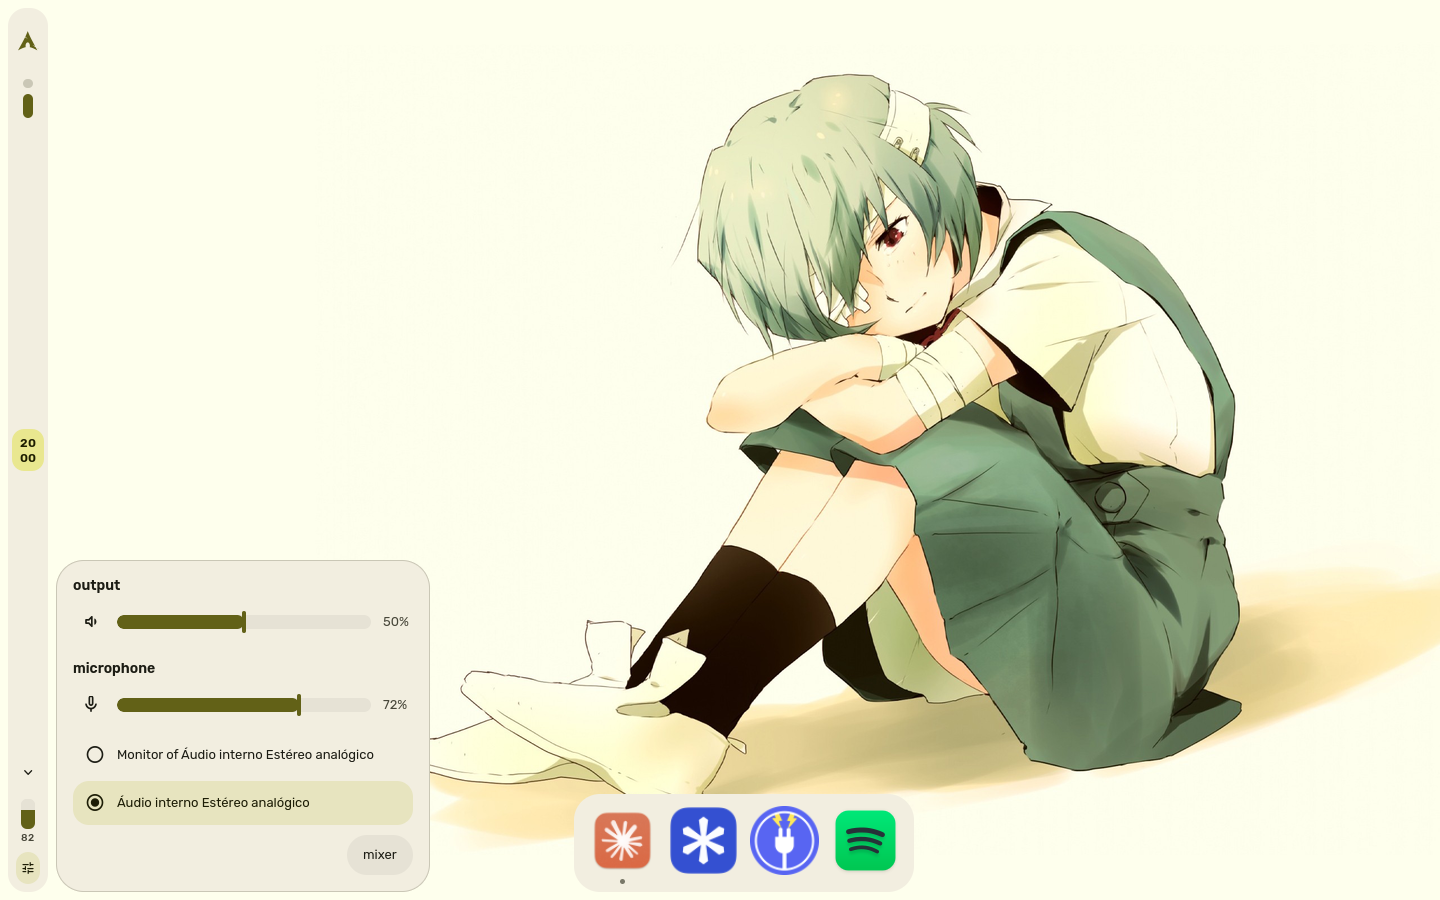
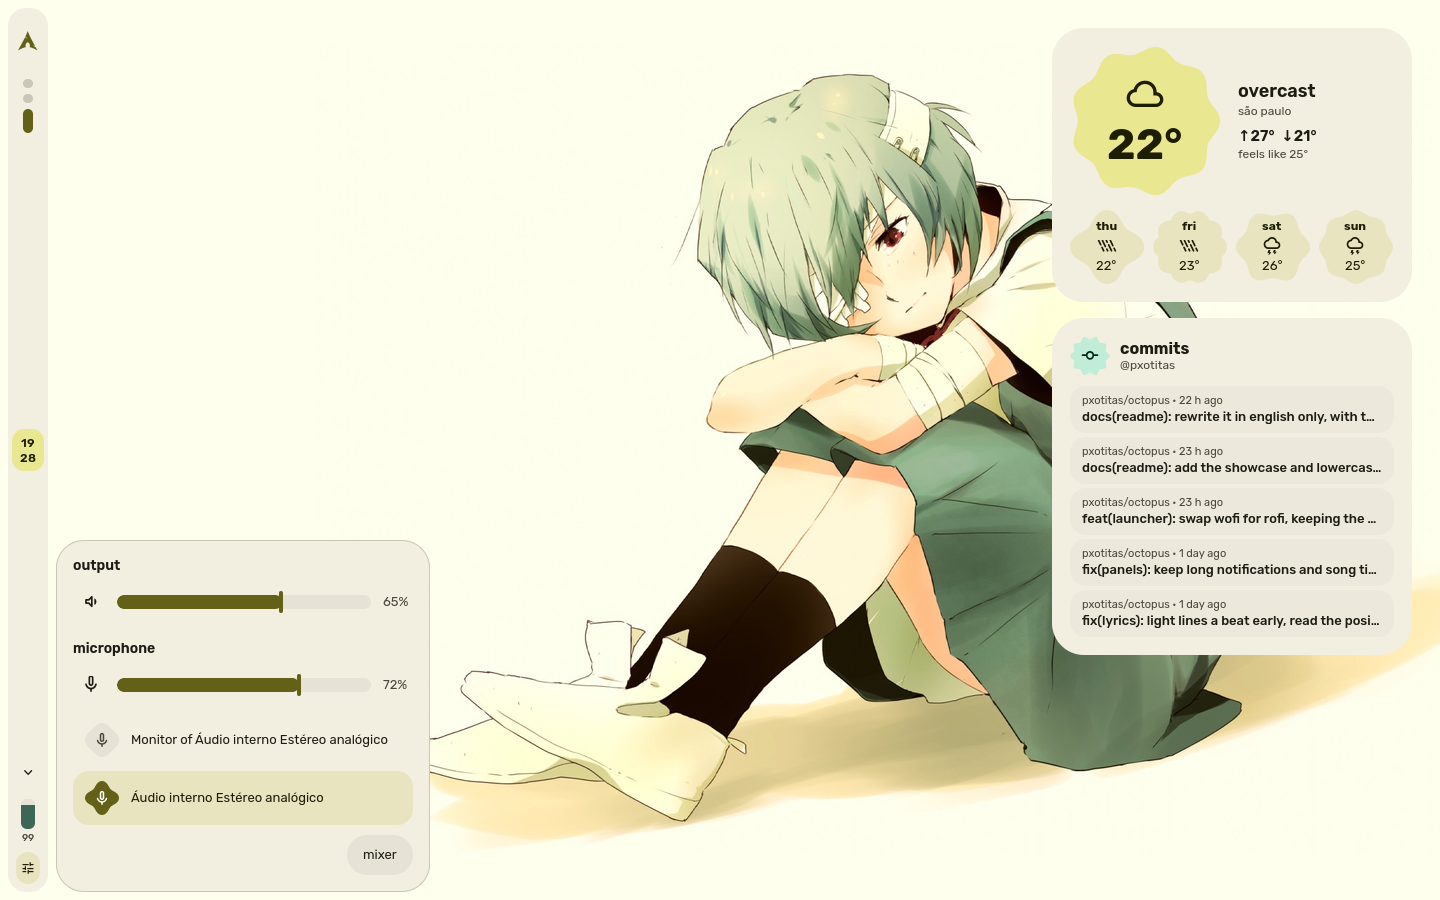
docs(readme): new screenshots, with drawers for the weather tab and the desktop widgets

diff --git a/README.md b/README.md
@@ -110,10 +110,10 @@ o vídeo inteiro, com som, tá no [site](https://pxotitas.github.io/octopus/pt/m
 estão todas em [`screenshots/`](screenshots). clica num grupo pra abrir.
 
 <details>
-<summary><b>desktop</b>: a barra, a dock, notificações e o osd</summary>
+<summary><b>desktop</b>: a barra, os widgets de desktop, notificações e o osd</summary>
 <br>
 
-a barra vertical na esquerda e a dock embaixo.
+a barra vertical na esquerda, e os widgets de desktop na direita: o clima e os últimos commits.
 
 <img src="screenshots/desktop.webp" alt="desktop com a barra e a dock" width="100%">
 
@@ -136,16 +136,40 @@ o osd, pra volume e brilho.
 </details>
 
 <details>
-<summary><b>dash</b>: relógio, calendário, clima, player e wallpapers</summary>
+<summary><b>dash</b>: rail, relógios, calendário, player, notificações, clima e wallpapers</summary>
 <br>
 
-a visão geral, que abre pelo relógio da barra.
+a visão geral, que abre pelo relógio da barra: rail de navegação, um relógio analógico num cookie, e as notificações em cima de um card de clima pequeno.
 
 <img src="screenshots/dash.webp" alt="visão geral do dash" width="100%">
 
 a aba de wallpapers; escolher um também gera a paleta.
 
 <img src="screenshots/wallpapers.webp" alt="seletor de wallpaper no dash" width="100%">
+
+</details>
+
+<details>
+<summary><b>clima</b>: shapes m3, e perguntas depois de um <code>&gt;</code></summary>
+<br>
+
+agora: métricas em shapes m3, o arco do sol e a lua, as próximas 24 horas e os dias.
+
+<img src="screenshots/weather.webp" alt="a aba de clima" width="100%">
+
+<code>&gt; amanhã</code>: um dia, e como ele fica comparado com hoje.
+
+<img src="screenshots/weather-tomorrow.webp" alt="o clima de amanhã" width="100%">
+
+<code>&gt; ontem</code>: tem uma semana pra trás também.
+
+<img src="screenshots/weather-yesterday.webp" alt="o clima de ontem" width="100%">
+
+<code>&gt; semana</code> e <code>&gt; fim de semana</code>: os dias em shapes, com o mais quente, o mais fresco e o mais chuvoso.
+
+<img src="screenshots/weather-week.webp" alt="o clima da semana" width="100%">
+
+<img src="screenshots/weather-weekend.webp" alt="o clima do fim de semana" width="100%">
 
 </details>
 
